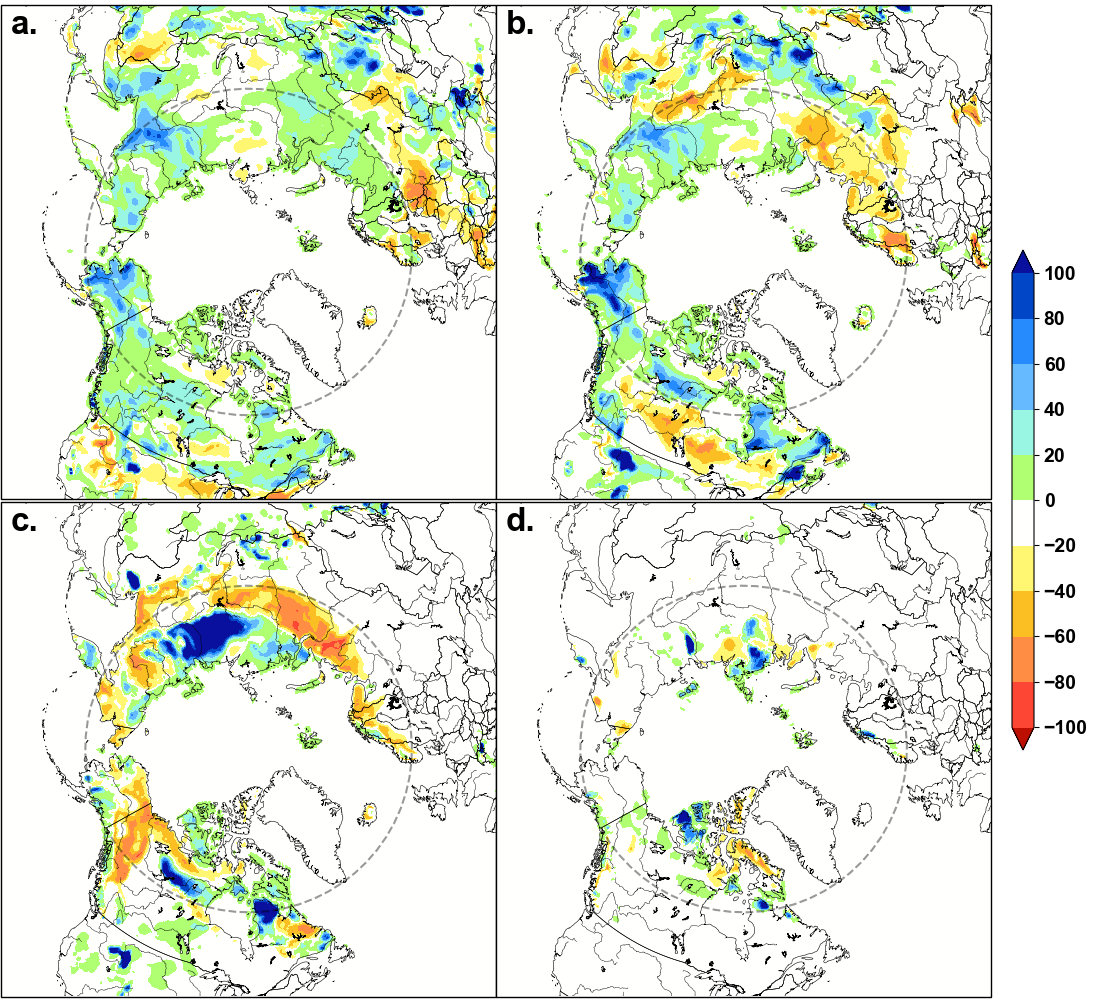
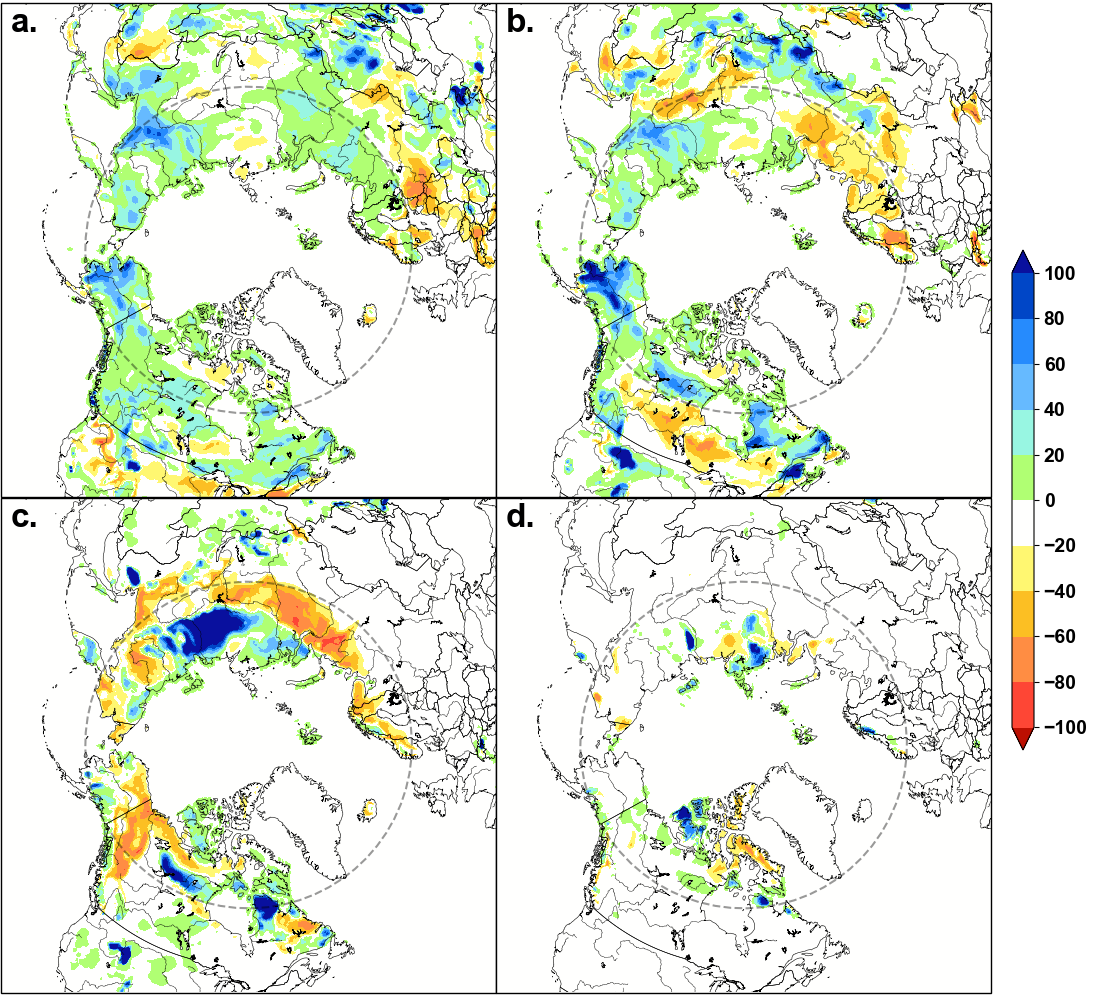
add Fig 4 draft - fig 3: fix panel alignment

diff --git a/scripts/snow_fig_4.py b/scripts/snow_fig_4.py
@@ -1,0 +1,114 @@
+from pathlib import Path
+
+import matplotlib.pyplot as plt
+import pandas as pd
+from matplotlib.lines import Line2D
+
+plt.rcParams['font.weight'] = 'bold'
+plt.rcParams['font.family'] = 'Arial'
+plt.rcParams['axes.labelsize'] = 16
+plt.rcParams['axes.labelweight'] = 'bold'
+plt.rcParams['xtick.labelsize'] = 14
+plt.rcParams['ytick.labelsize'] = 14
+
+figsize = (7, 6.8)
+dpi = 100
+ylims = (-3, 3)
+
+data_root = Path(__file__).parent.parent / 'data'
+
+# load swe data
+ea = pd.read_csv(
+    data_root / 'ARC_SWE_std_output_ea.csv',
+    names=['year', 'april_swe_ea', 'april_swe_ea_min', 'april_swe_ea_max'],
+    dtype={
+        'year': int,
+        'april_swe_ea': float,
+        'april_swe_ea_min': float,
+        'april_swe_ea_max': float
+    }
+).set_index('year', drop=True)
+na = pd.read_csv(
+    data_root / 'ARC_SWE_std_output_na.csv',
+    names=['year', 'april_swe_na', 'april_swe_na_min', 'april_swe_na_max'],
+    dtype={
+        'year': int,
+        'april_swe_na': float,
+        'april_swe_na_min': float,
+        'april_swe_na_max': float
+    }
+).set_index('year', drop=True)
+df = pd.merge(left=na, right=ea, left_index=True, right_index=True)
+
+# initialize canvas
+fig, ax = plt.subplots(figsize=figsize)
+# setting margins
+plt.subplots_adjust(top=0.95, bottom=0.11, left=0.12, right=0.95)
+# forcing inner-ticks
+ax.tick_params(axis='both', direction='in', top=True, right=True)
+# increase x-axis ticklabel pad a bit
+[tick.set_pad(13) for tick in ax.xaxis.get_major_ticks()]
+ax.xaxis.labelpad = 8
+
+# plot empty circles
+df[['april_swe_na', 'april_swe_ea']].plot(
+    ax=ax, linestyle='None', linewidth=0.1, zorder=2, marker='o', 
+    markerfacecolor='None', markersize=10, legend=False, color=['black', 'red']
+)
+# plot "latest year" filled circles
+latest_year = df.index.max()
+current = df.loc[[latest_year]]
+current['april_swe_na'].plot(
+    ax=ax, linestyle='None', linewidth=0.1, zorder=3, marker='o', 
+    markerfacecolor='black', markersize=10, legend=False, color='black'
+)
+current['april_swe_ea'].plot(
+    ax=ax, linestyle='None', linewidth=0.1, zorder=3, marker='o', 
+    markerfacecolor='red', markersize=10, legend=False, color='black'
+)
+
+# plot 5-year mean raw anomaly and fill-betweens
+sub = df.set_index(
+    pd.date_range(f'{df.index.min()}-01-01', f'{df.index.max()}-01-01', freq='YS')
+)
+# NB: swapped order for the raw mean so it plots NA overtop of EA
+rolling_raw = sub[['april_swe_ea','april_swe_na']].rolling(5, min_periods=0, closed='both', center=True).mean()
+rolling_max = sub[['april_swe_na_max', 'april_swe_ea_max']].rolling(5, min_periods=0, closed='both', center=True).mean()
+rolling_min = sub[['april_swe_na_min', 'april_swe_ea_min']].rolling(5, min_periods=0, closed='both', center=True).mean()
+rolling_raw.set_index(rolling_raw.index.year).plot(
+    ax=ax, solid_joinstyle='round', legend=False, 
+    zorder=1, linewidth=3, color=['red', 'black']
+)
+# north america fillbetween
+ax.fill_between(
+    df.index, 
+    y1=rolling_min['april_swe_na_min'].values, 
+    y2=rolling_max['april_swe_na_max'].values,
+    facecolor='black',
+    alpha=0.2
+)
+# eurasia fillbetween
+ax.fill_between(
+    df.index, 
+    y1=rolling_min['april_swe_ea_min'].values, 
+    y2=rolling_max['april_swe_ea_max'].values,
+    facecolor='red',
+    alpha=0.2
+)
+
+# axis formatting
+xmin = df.index.min()-1 
+xmax = df.index.max()+1
+ax.set_ylabel('April SWE Anomaly')
+ax.set_xlabel('Year')
+ax.set_ylim(ylims)
+ax.set_xlim(left=xmin, right=xmax)
+ax.hlines([0], xmin=xmin, xmax=xmax, linestyles=(0,[8, 2]), zorder=5, edgecolor='black', linewidth=1, alpha=0.8)
+
+# Add legend
+na_marker = Line2D([0], [0], marker='o', color='None', markersize=10, markerfacecolor='black', label='North American Arctic')
+ea_marker = Line2D([0], [0], marker='o', color='None', markersize=10, markerfacecolor='red', label='Eurasian Arctic')
+ax.legend(handles=[na_marker, ea_marker], loc=2, fontsize=14, frameon=False)
+
+# save
+plt.savefig(data_root.parent / 'figures' / 'ARC_Snow_Fig4-python.png', dpi=dpi)

diff --git a/scripts/snow_fig_3.py b/scripts/snow_fig_3.py
@@ -104,10 +104,10 @@ cb_ax = fig.add_axes([0.92, 0.25, 0.02, 0.5])
 cbar = fig.colorbar(contour_a, ax=axs[:, 1], cax=cb_ax, ticks=cbar_ticks, extend='both')
 
 # reset axes positions (pain!)
-ax_a.set_position(pos=[0.001, 0.498, 0.45, 0.5])
-ax_b.set_position(pos=[0.451, 0.498, 0.45, 0.5])
-ax_c.set_position(pos=[0.001, 0.001, 0.45, 0.5])
-ax_d.set_position(pos=[0.451, 0.001, 0.45, 0.5])
+ax_a.set_position(pos=[0.001, 0.500, 0.45, 0.5])
+ax_b.set_position(pos=[0.451, 0.500, 0.45, 0.5])
+ax_c.set_position(pos=[0.001, 0.005, 0.45, 0.5])
+ax_d.set_position(pos=[0.451, 0.005, 0.45, 0.5])
 
 # axis text indicators
 ax_a.text(0.02, 0.94, 'a.', fontsize=24, transform=ax_a.transAxes)
